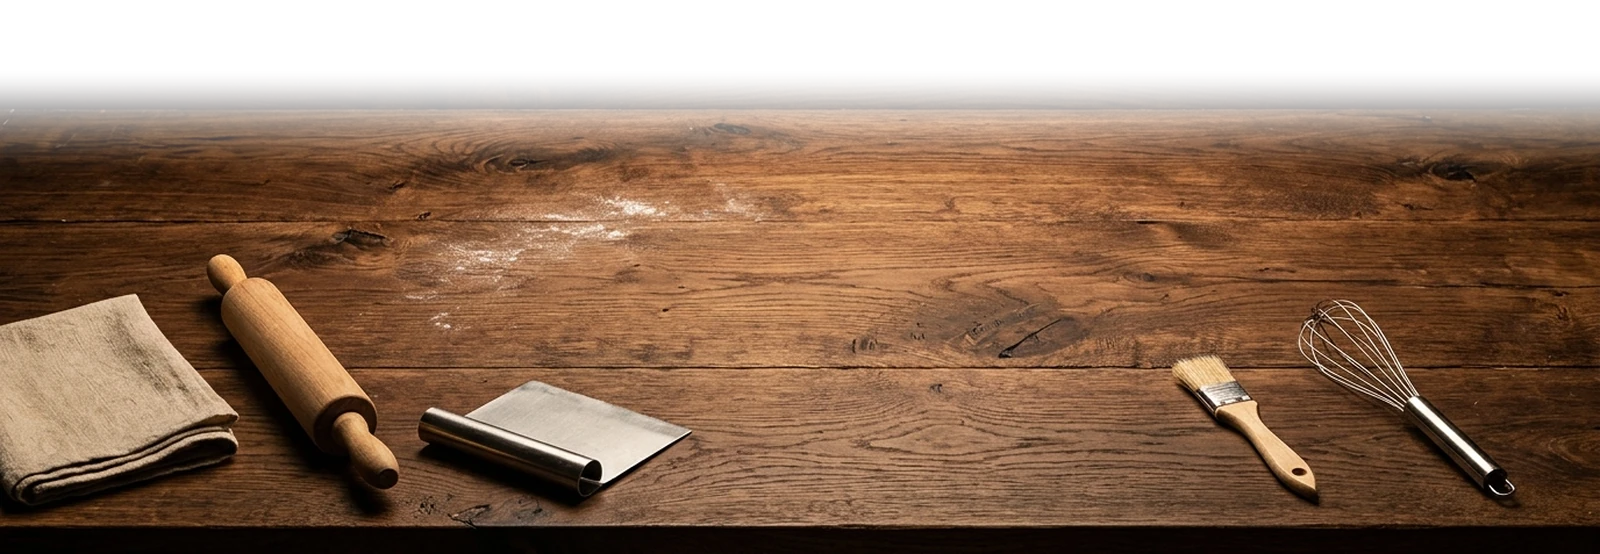
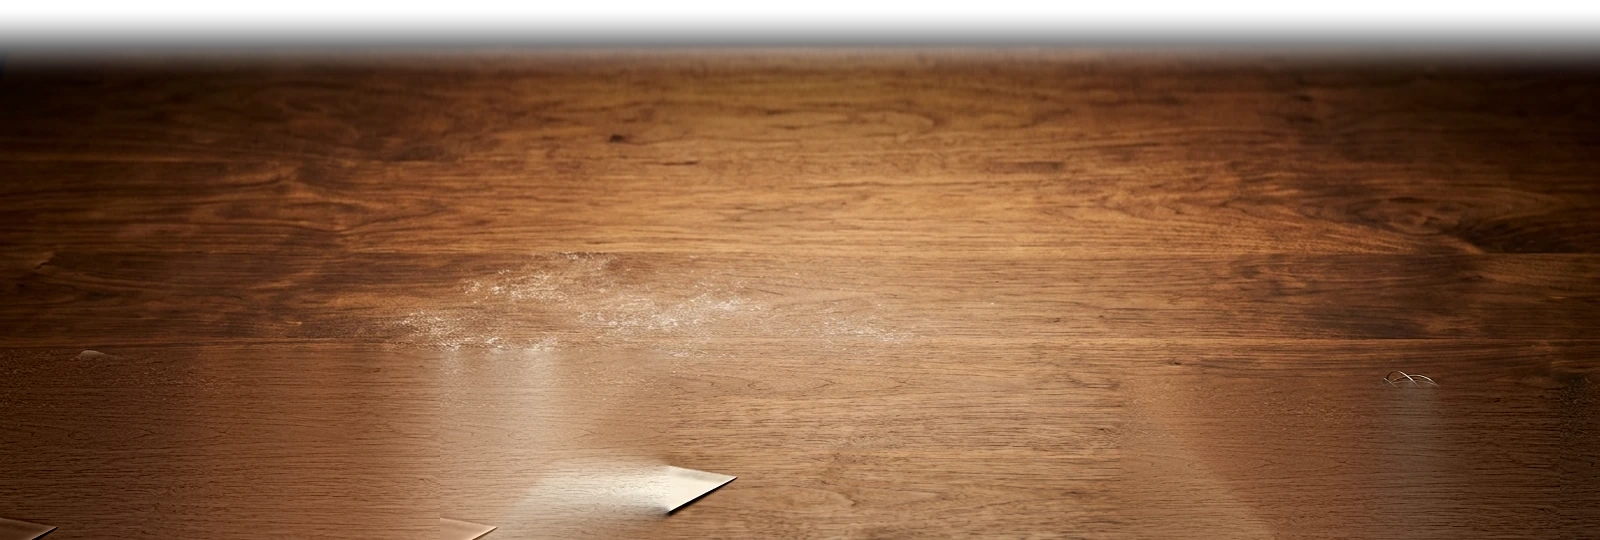
Remove tools from workbench, fix green croissant to chocolate, ground oreo, add wooden tier and afternoon tea sweets stands

diff --git a/backend/static/index.html b/backend/static/index.html
@@ -295,9 +295,17 @@
 
     .roti-mound.roti-v-right {
       right: -0.4vw;
-      width: min(50vw, 80svh);
+      width: min(58vw, 92svh);
       bottom: clamp(134px, 18.2svh, 178px);
       transform: translate3d(0, 0, 0);
+    }
+
+    .roti-mound.roti-center-stand {
+      left: 50%;
+      bottom: clamp(140px, 18.8svh, 185px);
+      width: min(28vw, 440px);
+      transform: translate3d(-50%, 0, 0);
+      z-index: 15;
     }
 
     /* Dedicated Mobile Portrait Tall V-Wings (hidden on PC) */
@@ -1507,8 +1515,9 @@
           <div class="curtain-bg" id="curtainBg"></div>
           <img class="kitchen-table-layer kitchen-table-pc" id="kitchenTablePc" src="/static/assets/intro/kitchen_table_pc.webp?v=6" alt="" width="1600" height="540" decoding="async" />
           <img class="kitchen-table-layer kitchen-table-mobile" id="kitchenTableMobile" src="/static/assets/intro/kitchen_table.webp?v=2" alt="" width="1600" height="554" decoding="async" />
-          <img class="roti-mound roti-pc-wing roti-v-left" id="rotiLeftFront" src="/static/assets/intro/roti_v_left.webp?v=7" alt="" width="1048" height="718" decoding="async" />
-          <img class="roti-mound roti-pc-wing roti-v-right" id="rotiRightFront" src="/static/assets/intro/roti_v_right.webp?v=7" alt="" width="883" height="658" decoding="async" />
+          <img class="roti-mound roti-pc-wing roti-v-left" id="rotiLeftFront" src="/static/assets/intro/roti_v_left.webp?v=8" alt="" width="1048" height="718" decoding="async" />
+          <img class="roti-mound roti-pc-wing roti-center-stand" id="rotiCenterStand" src="/static/assets/intro/roti_center_stand.webp?v=1" alt="" width="540" height="460" decoding="async" />
+          <img class="roti-mound roti-pc-wing roti-v-right" id="rotiRightFront" src="/static/assets/intro/roti_v_right.webp?v=9" alt="" width="1150" height="740" decoding="async" />
           <img class="roti-mound roti-mobile-wing roti-mobile-left" id="rotiLeftMobile" src="/static/assets/intro/roti_mobile_left.webp?v=2" alt="" width="559" height="1080" decoding="async" />
           <img class="roti-mound roti-mobile-wing roti-mobile-right" id="rotiRightMobile" src="/static/assets/intro/roti_mobile_right.webp?v=2" alt="" width="652" height="1020" decoding="async" />
           <div class="croissant-contact-shadow" id="croissantShadow"></div>
@@ -1786,6 +1795,7 @@
     const croissantShadow = document.getElementById("croissantShadow");
     const heroCanvas = document.getElementById("croissantCanvas");
     const rotiLeftFront = document.getElementById("rotiLeftFront");
+    const rotiCenterStand = document.getElementById("rotiCenterStand");
     const rotiRightFront = document.getElementById("rotiRightFront");
     const rotiLeftMobile = document.getElementById("rotiLeftMobile");
     const rotiRightMobile = document.getElementById("rotiRightMobile");
@@ -2112,6 +2122,11 @@
           if (rotiRightFront) {
             rotiRightFront.style.transform = `translate3d(${rx.toFixed(1)}px, ${ry.toFixed(1)}px, 0) rotate(${(sideEase * 5).toFixed(2)}deg)`;
             rotiRightFront.style.opacity = sideAlpha.toFixed(3);
+          }
+          if (rotiCenterStand) {
+            const cy = sideEase * 180;
+            rotiCenterStand.style.transform = `translate3d(-50%, ${cy.toFixed(1)}px, 0)`;
+            rotiCenterStand.style.opacity = sideAlpha.toFixed(3);
           }
         }
 
